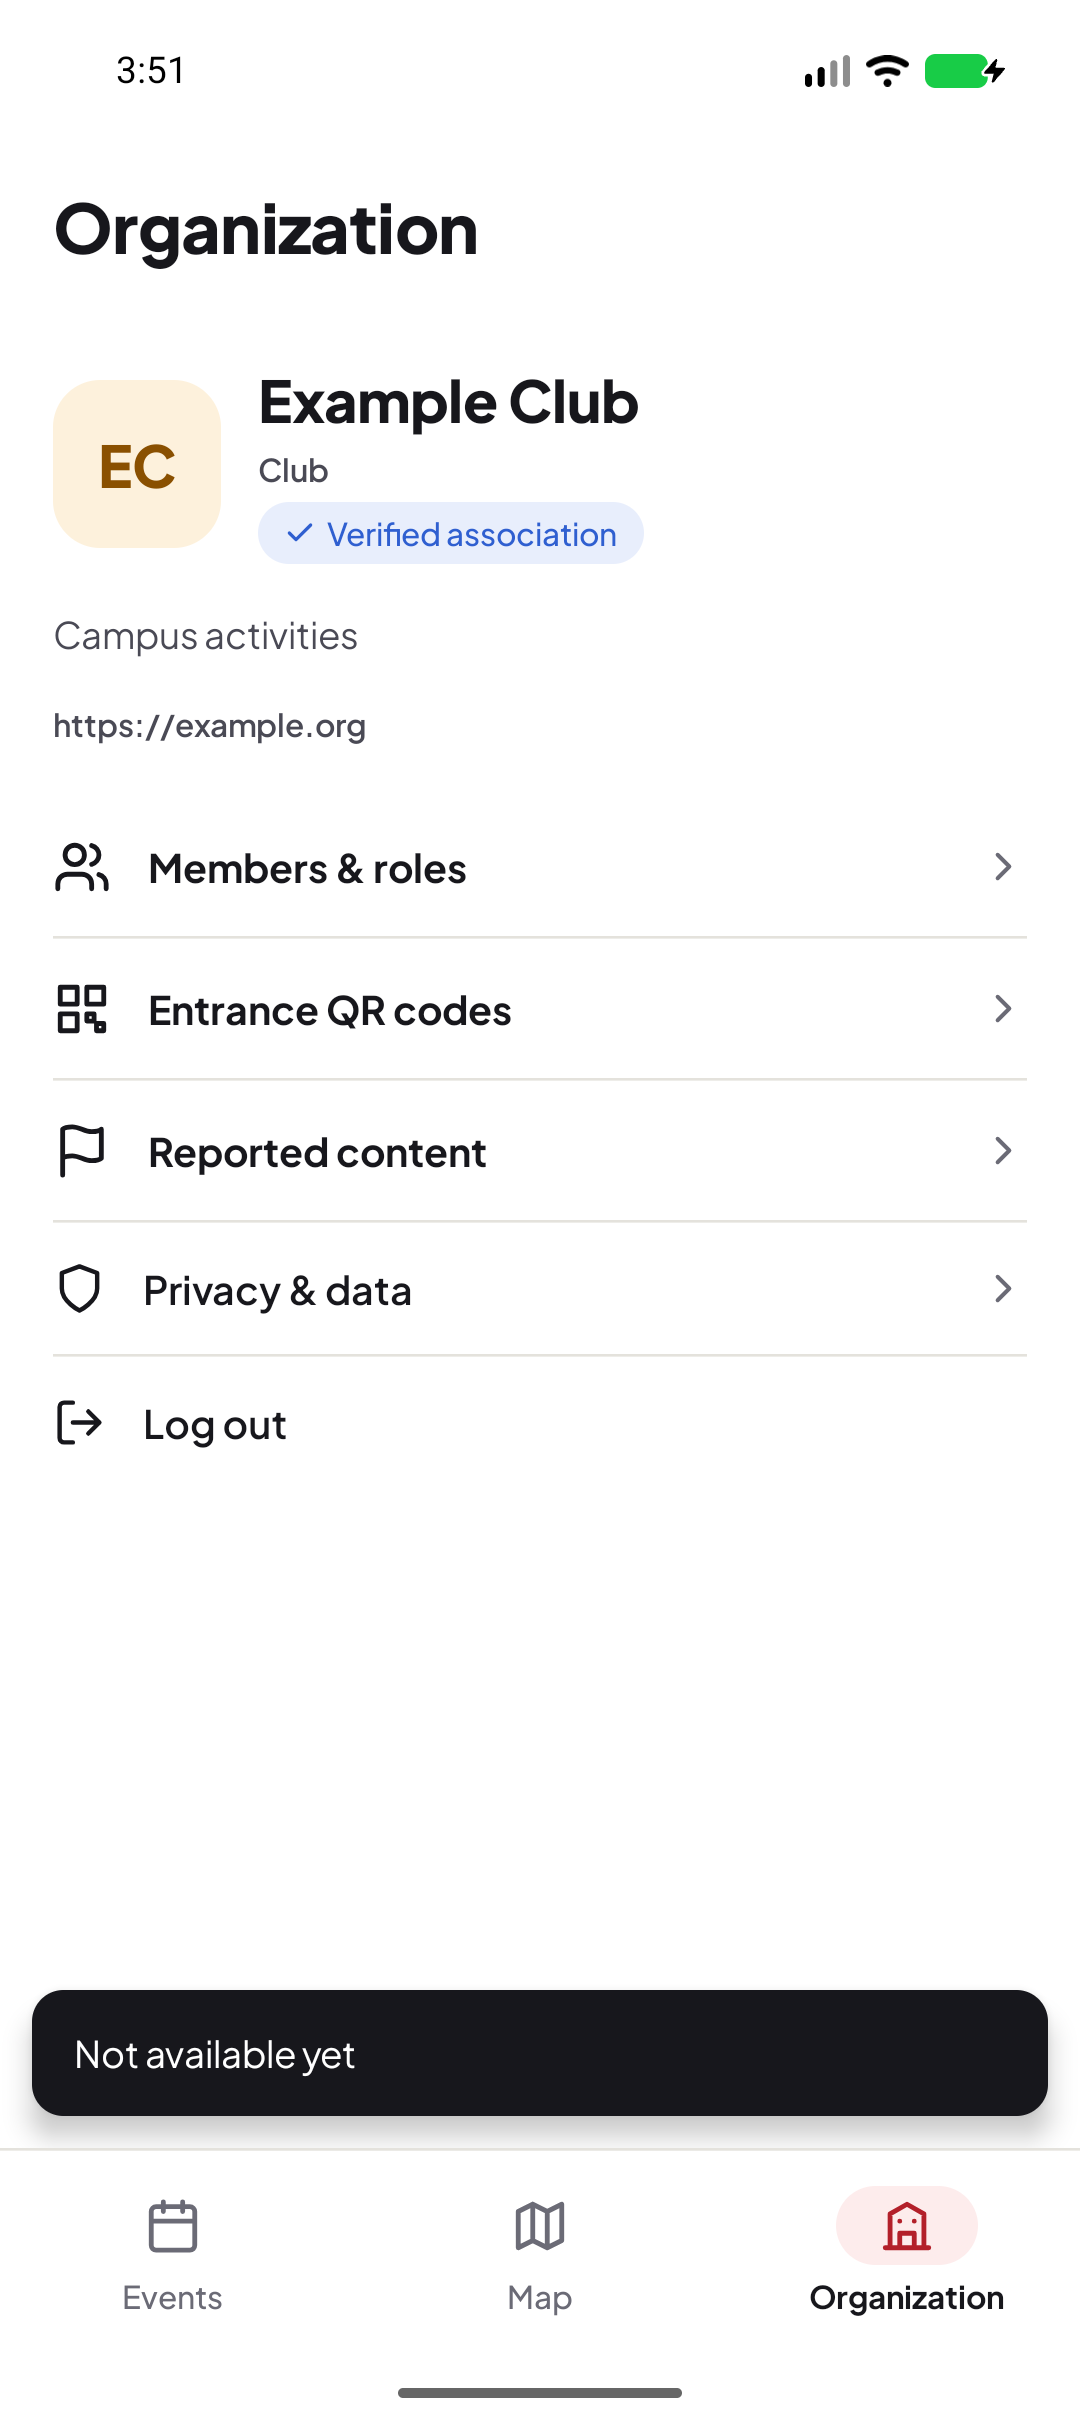
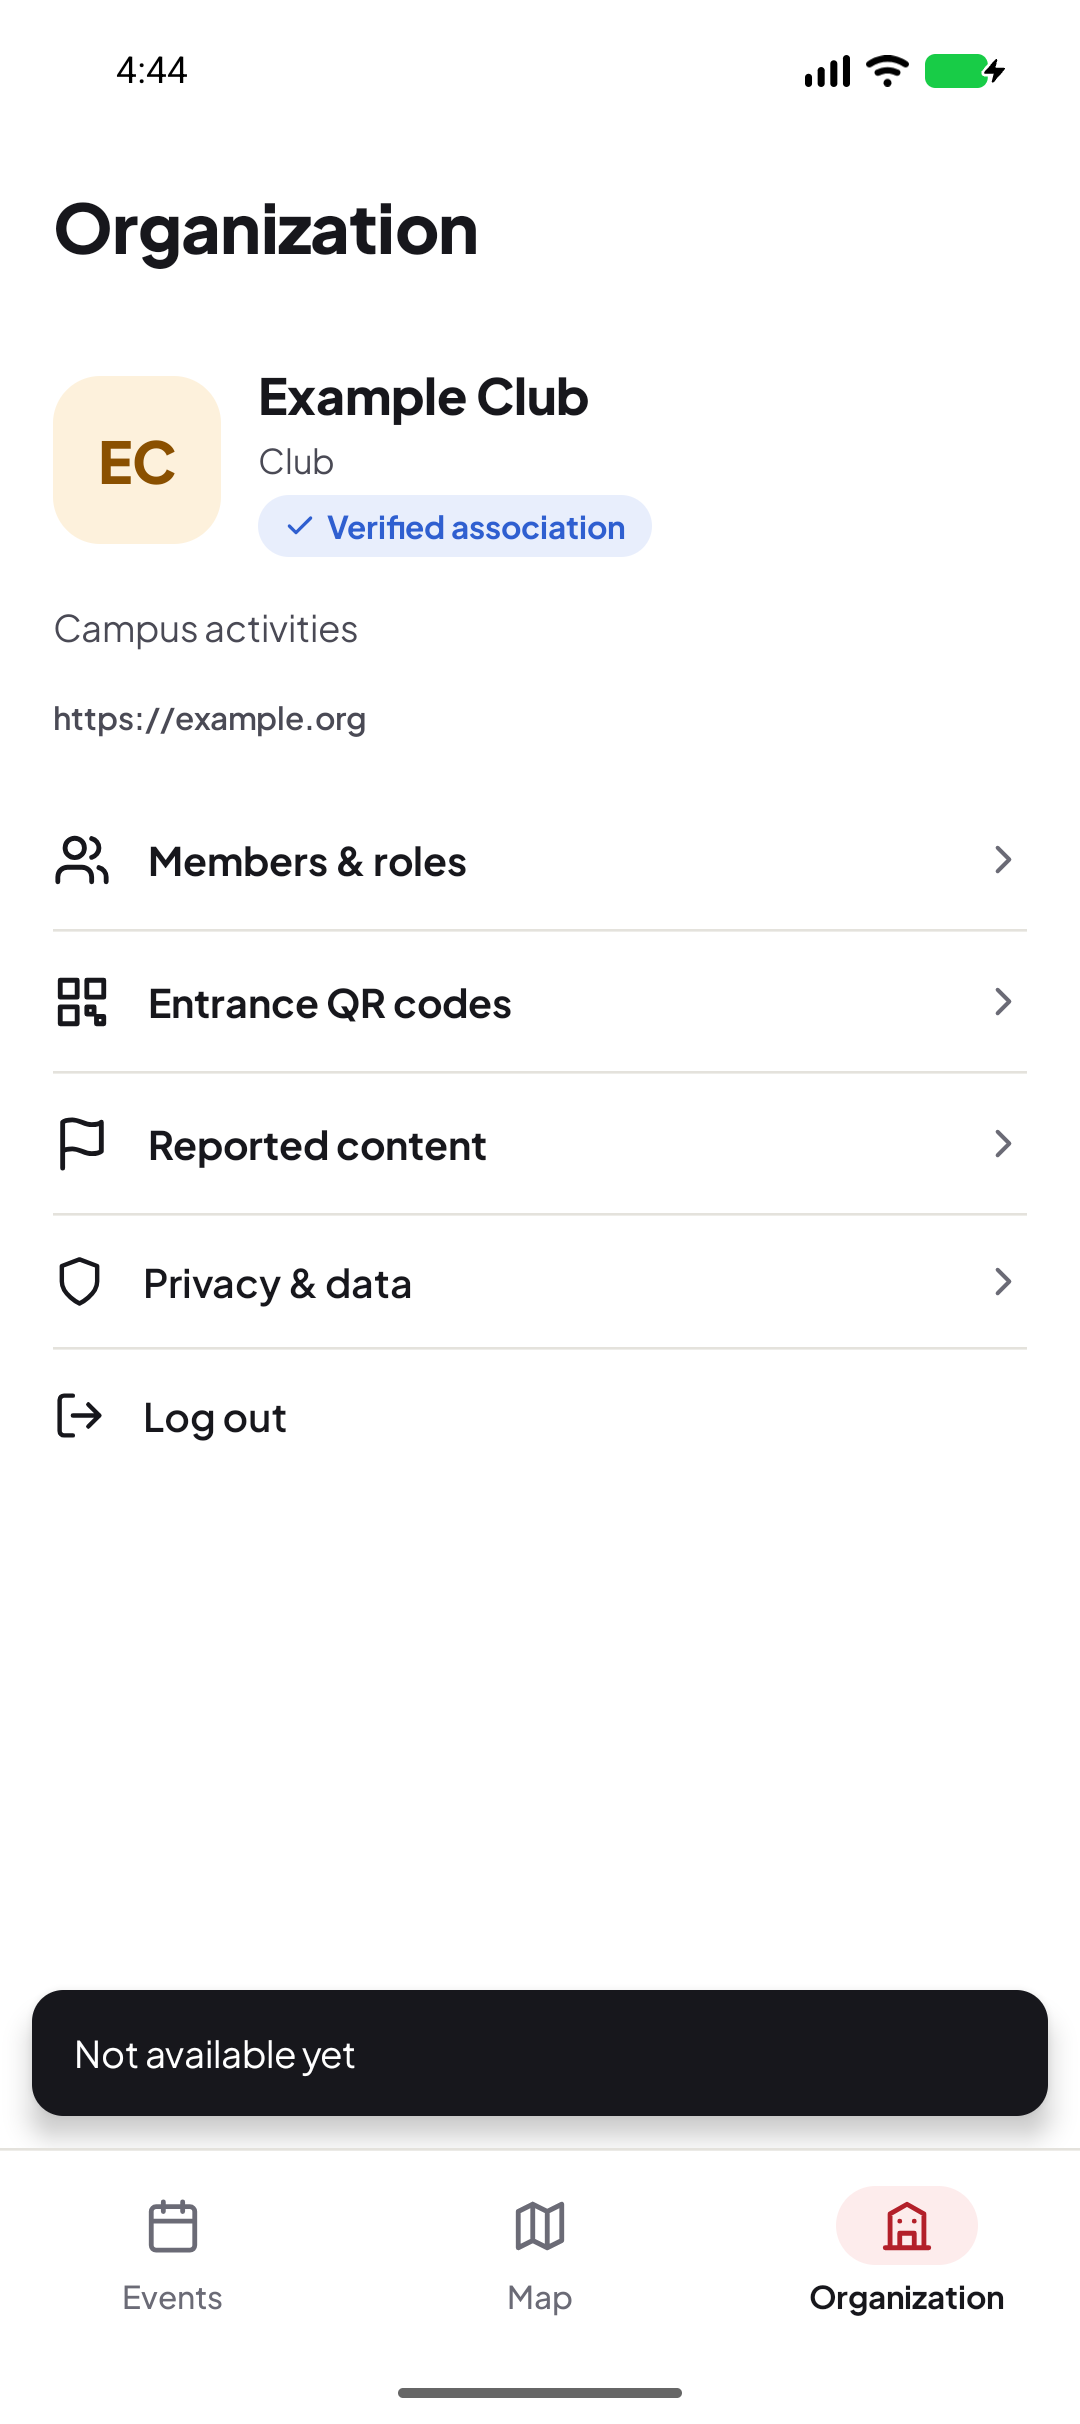
fix: match organization type to figma
Use the design’s 19sp name, 13sp type and bold verified label.

Refresh emulator screenshots after the UI regression passes. Refs #140.

diff --git a/app/src/main/java/com/polysocial/ui/association/OrganizationScreen.kt b/app/src/main/java/com/polysocial/ui/association/OrganizationScreen.kt
@@ -17,6 +17,7 @@ import androidx.compose.ui.res.stringResource
 import androidx.compose.ui.semantics.Role
 import androidx.compose.ui.text.font.FontWeight
 import androidx.compose.ui.unit.dp
+import androidx.compose.ui.unit.sp
 import androidx.hilt.lifecycle.viewmodel.compose.hiltViewModel
 import androidx.lifecycle.compose.collectAsStateWithLifecycle
 import com.polysocial.R
@@ -129,12 +130,20 @@ fun OrganizationScreen(
               Column(verticalArrangement = Arrangement.spacedBy(5.dp)) {
                 Text(
                     association.name,
-                    style = MaterialTheme.typography.titleLarge,
+                    style =
+                        MaterialTheme.typography.titleLarge.copy(
+                            fontSize = 19.sp,
+                            lineHeight = 24.sp,
+                        ),
                     fontWeight = FontWeight.ExtraBold,
                 )
                 Text(
                     stringResource(association.type.label()),
-                    style = MaterialTheme.typography.bodySmall,
+                    style =
+                        MaterialTheme.typography.bodySmall.copy(
+                            fontSize = 13.sp,
+                            fontWeight = FontWeight.Normal,
+                        ),
                     color = Ink2,
                 )
                 Surface(shape = RoundedCornerShape(12.dp), color = InfoSoft) {
@@ -153,6 +162,7 @@ fun OrganizationScreen(
                         stringResource(R.string.organization_verified),
                         Modifier.testTag(OrganizationTags.Verified),
                         style = MaterialTheme.typography.labelSmall,
+                        fontWeight = FontWeight.Bold,
                         color = Info,
                     )
                   }
